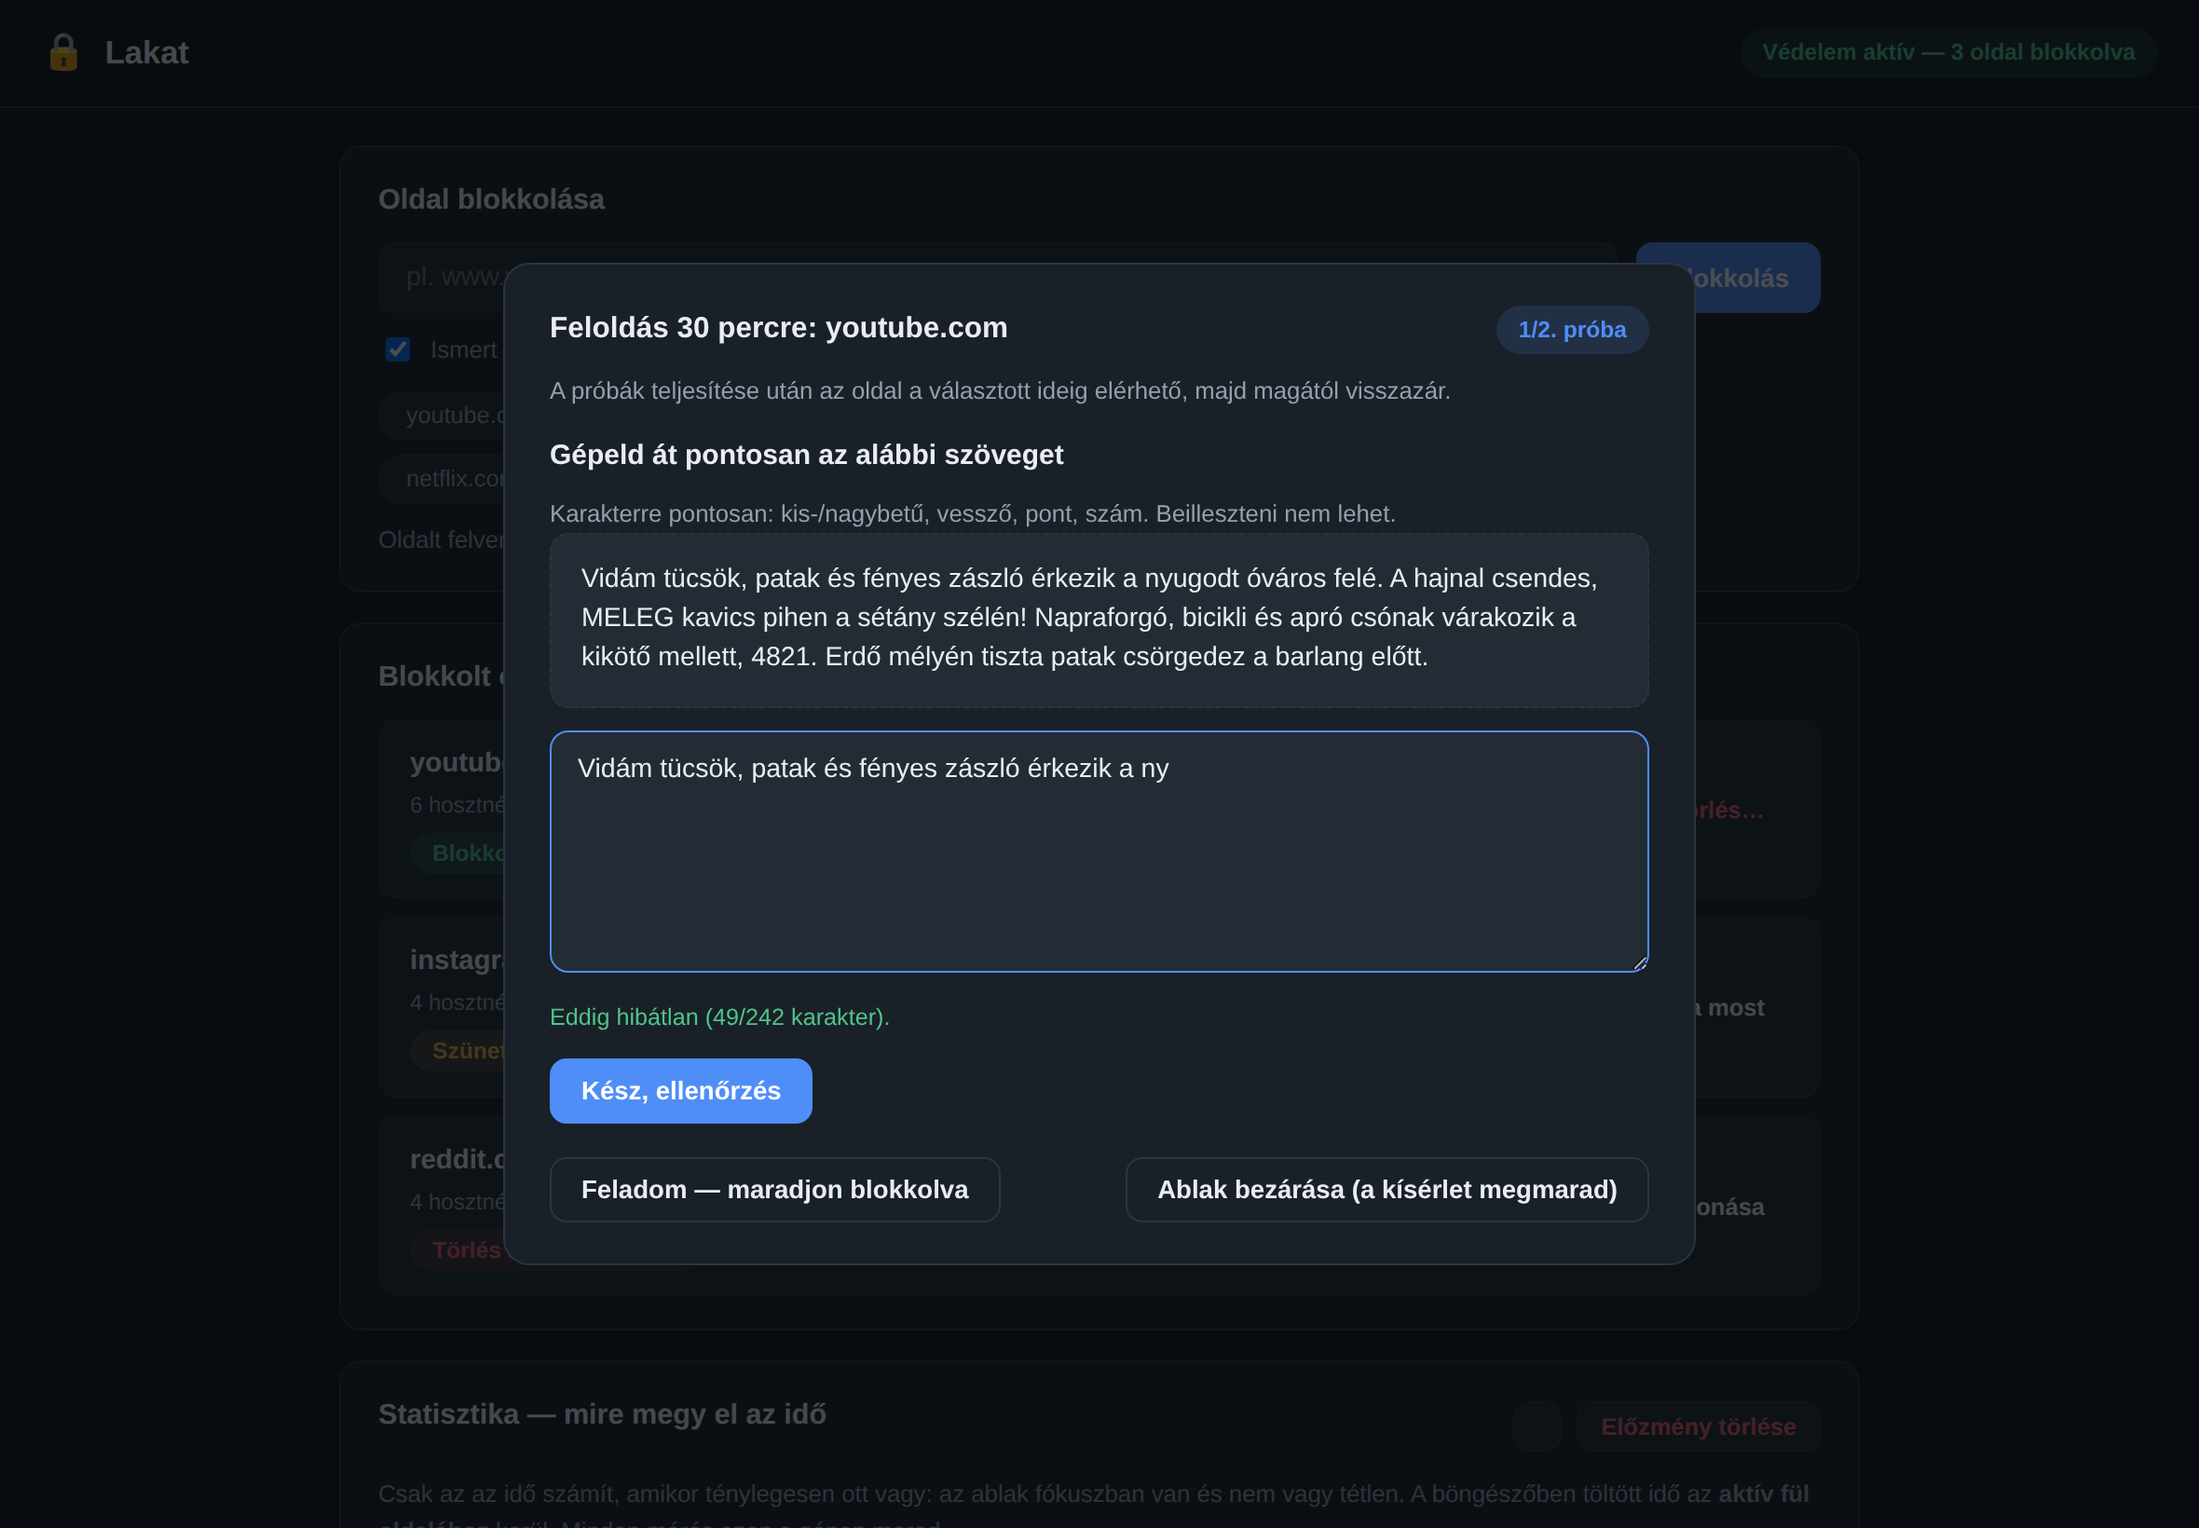
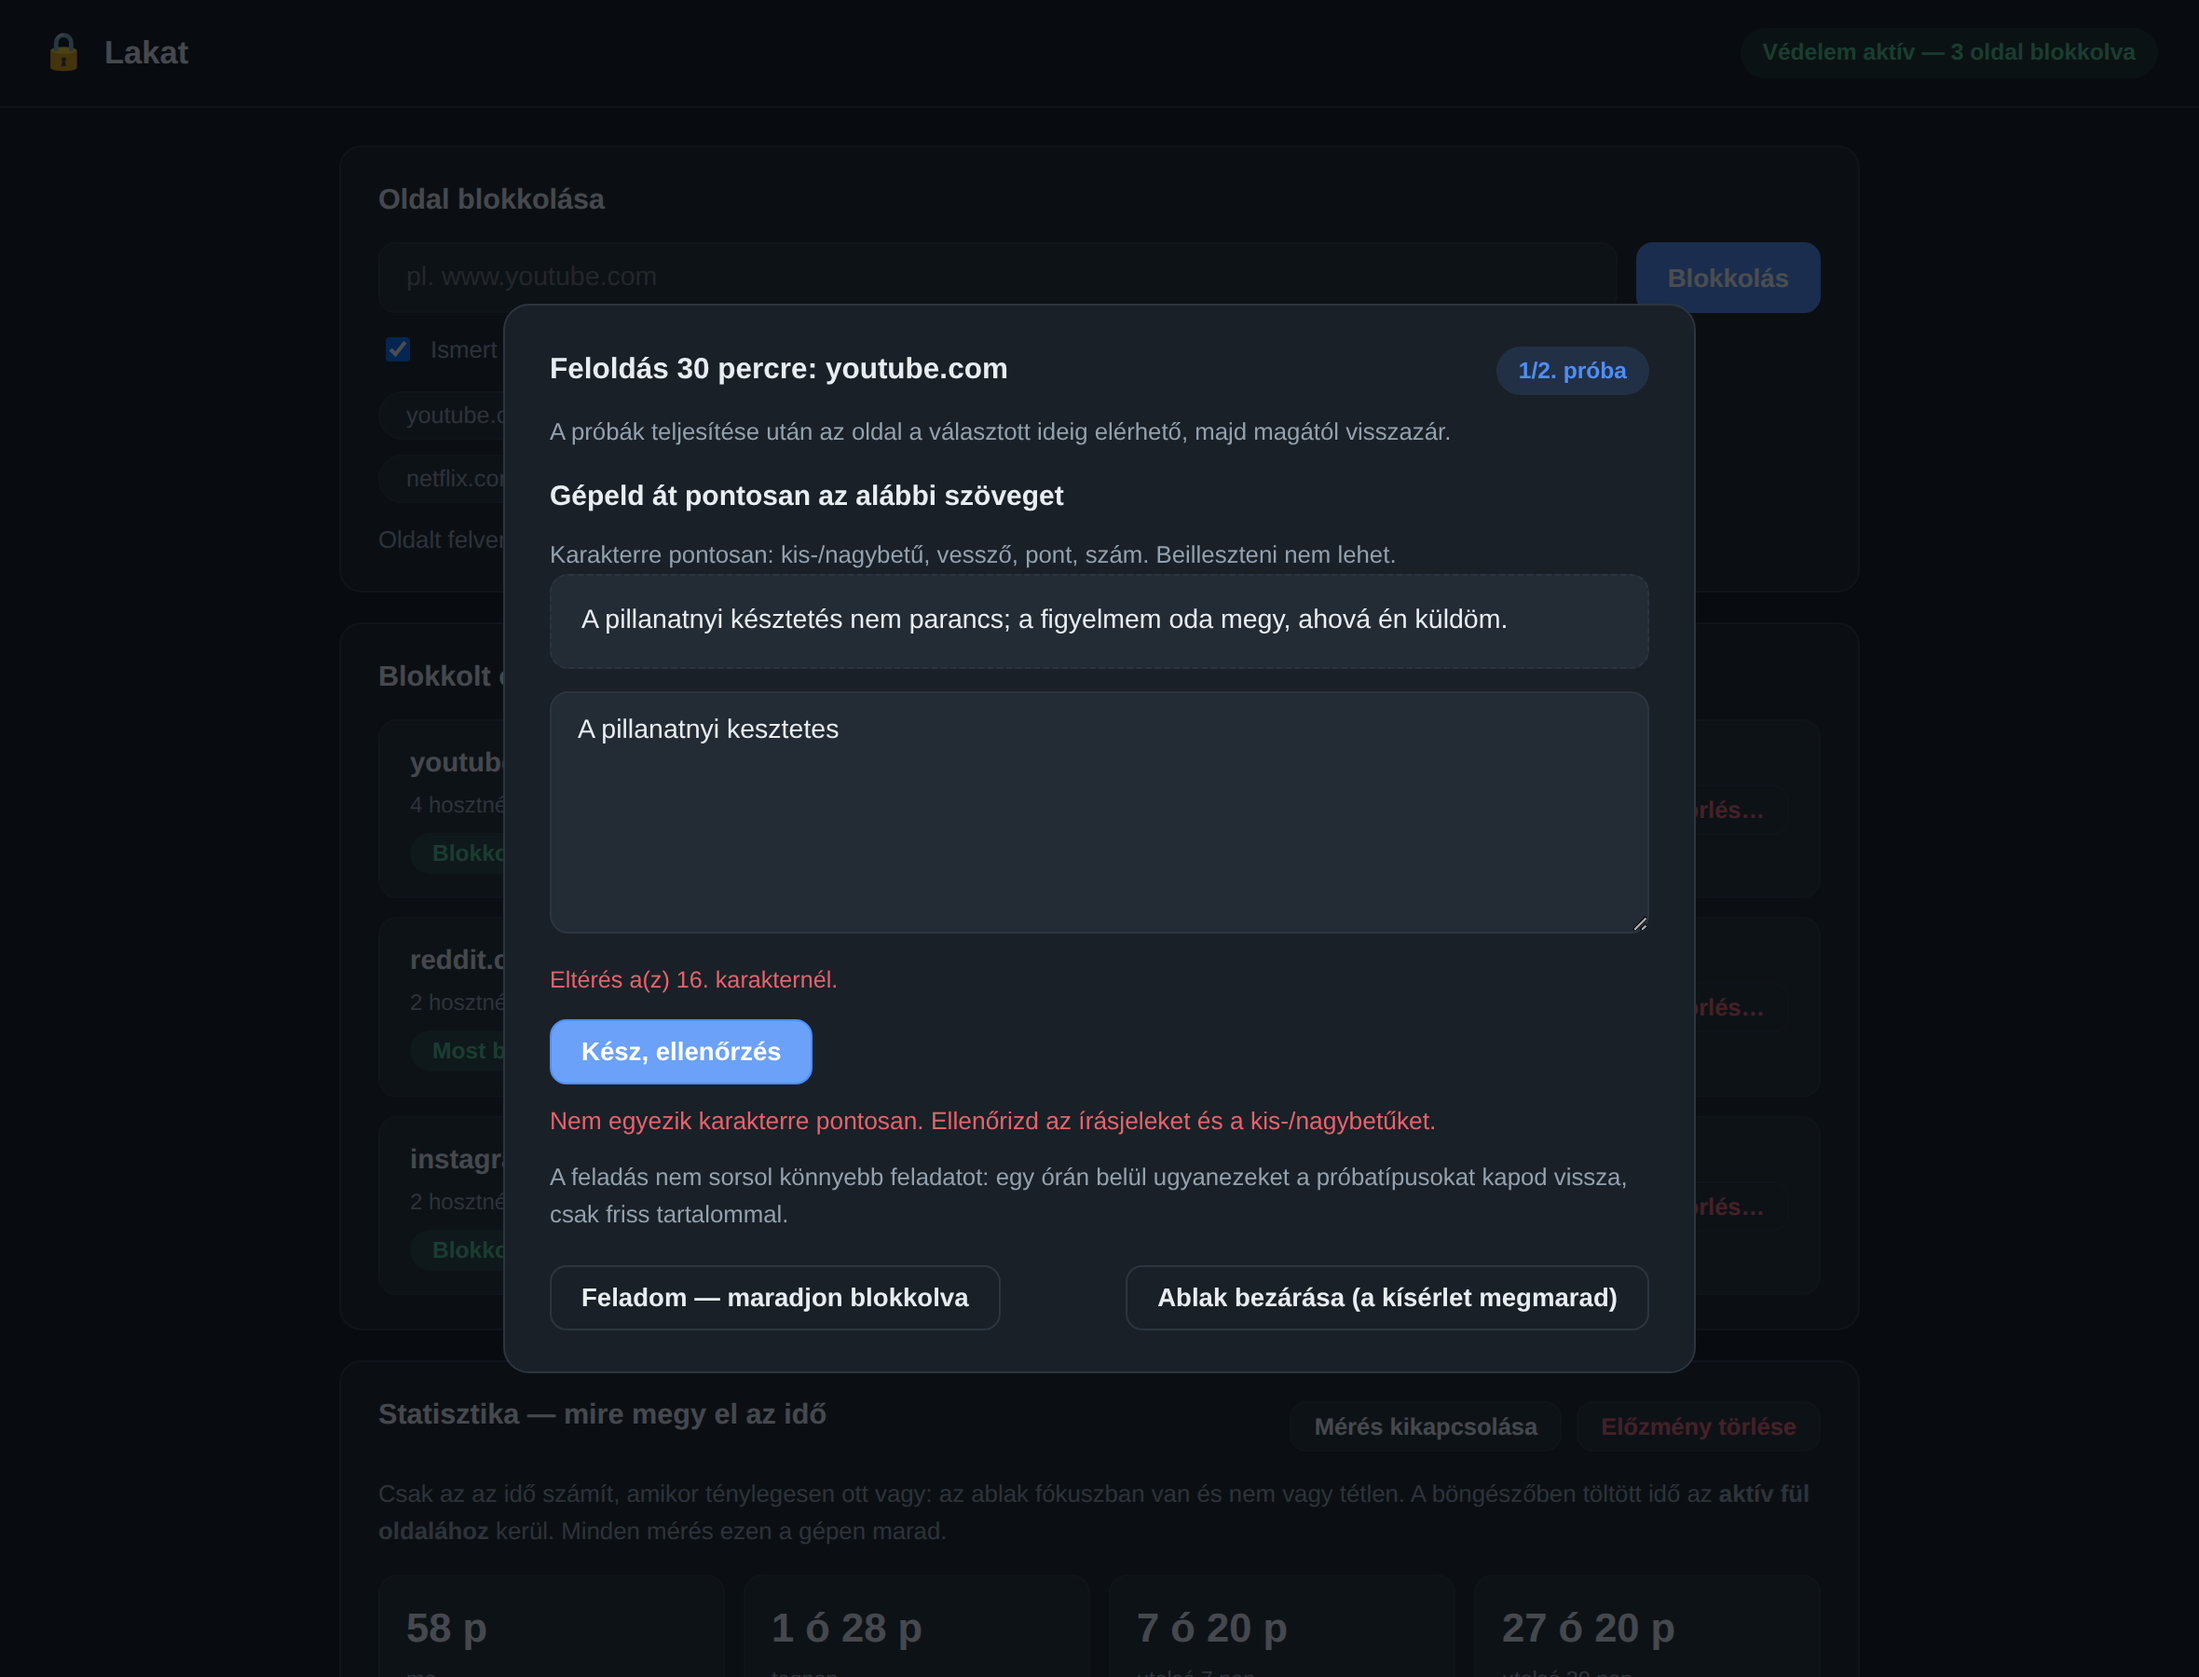
Renderer füstteszt: a felület tényleg betöltődik, és a képek frissek
A rendererről eddig semmi nem mondta meg, hogy egyáltalán elindul-e. Egy
hiányzó .js kiterjesztés az importban vagy egy null elem-lekérés némán üres
ablakot ad — a TypeScript-fordítás közben egyik sem látszik, és ez már
kétszer megtörtént.

scripts/ui-shots.js betölti a lefordított renderert egy fejetlen Chromiumban
(a window.lakat hidat egy kis, előre felírt állapot helyettesíti — nem kell
hozzá segéd, root, sem Electron), és végigmegy a valódi folyamaton:
- a főképernyőn tényleg megjelenik a három oldal és a négy stat-csempe,
- a heti diagram tényleg rajzol sávokat,
- „Feloldás időre…" → hossz választása → próbatétel-ablak,
- a beillesztés-tiltás valóban kiüríti a mezőt és szól érte,
- gépelve az élő visszajelzés az első eltérő karakterre mutat,
- a hibás válasz a szerver üzenetét mutatja.
Minden oldal-hiba (pageerror, konzol-hiba, 404) bukó teszt.

Ugyanez a szkript írja a docs/images képeket is (--check nélkül), így a
README képei nem csúsznak el a valóságtól. A CI külön jobként futtatja.

A képek frissítve; a próbatétel-ablakon már látszik az új figyelmeztetés is,
hogy a feladás nem sorsol könnyebb feladatot.

diff --git a/desktop/scripts/ui-shots.js b/desktop/scripts/ui-shots.js
@@ -1,0 +1,216 @@
+// Renderer smoke test + screenshot generator.
+//
+// Two jobs in one, because they need exactly the same setup:
+//   1. It actually LOADS the built renderer and drives it. A renderer can break
+//      in ways tsc never sees (a module specifier without .js, a null element
+//      lookup) and then the whole window is silently blank. That failure has
+//      happened twice; here it fails loudly instead.
+//   2. It refreshes docs/images/*.png so the README shows the current UI.
+//
+// The Electron bridge (window.lakat) is replaced by an in-page fake backed by a
+// small scripted state, so no helper, no root, no Electron — just Chromium.
+//
+// Run: node scripts/ui-shots.js            (writes docs/images, exits non-zero on any page error)
+//      node scripts/ui-shots.js --check    (smoke test only, no screenshots written)
+
+const fs = require('fs');
+const http = require('http');
+const path = require('path');
+
+const ROOT = path.join(__dirname, '..');
+// Serve dist/ui, not dist/ui/renderer: the page imports ../shared/*.js, which
+// would fall outside a root set at the renderer folder (exactly the 404 that
+// blanks the window in production too).
+const WEB = path.join(ROOT, 'dist', 'ui');
+const OUT = path.join(ROOT, '..', 'docs', 'images');
+const CHECK_ONLY = process.argv.includes('--check');
+
+const MIME = { '.html': 'text/html', '.js': 'text/javascript', '.css': 'text/css' };
+
+function globalPlaywrightPath() {
+  try {
+    const root = require('child_process').execSync('npm root -g', { encoding: 'utf8' }).trim();
+    const p = path.join(root, 'playwright');
+    return fs.existsSync(p) ? p : null;
+  } catch {
+    return null;
+  }
+}
+
+// file:// would work for the HTML but not for ES modules (CORS), so serve it.
+function serve() {
+  return new Promise((resolve) => {
+    const server = http.createServer((req, res) => {
+      const rel = (req.url || '/').split('?')[0];
+      const file = path.join(WEB, rel === '/' ? 'renderer/index.html' : rel);
+      if (!file.startsWith(WEB) || !fs.existsSync(file)) { res.statusCode = 404; res.end('no'); return; }
+      res.setHeader('Content-Type', MIME[path.extname(file)] || 'application/octet-stream');
+      res.end(fs.readFileSync(file));
+    });
+    server.listen(0, '127.0.0.1', () => resolve({ server, port: server.address().port }));
+  });
+}
+
+/** The scripted backend the fake bridge answers from. Kept deliberately small. */
+function fakeBridgeSource() {
+  return `
+    const now = Date.now();
+    const day = (back) => {
+      const d = new Date(now); d.setHours(12,0,0,0); d.setDate(d.getDate() - back);
+      const m = String(d.getMonth()+1).padStart(2,'0');
+      return d.getFullYear() + '-' + m + '-' + String(d.getDate()).padStart(2,'0');
+    };
+    const sites = [
+      { id: 'site_1', domain: 'youtube.com', hostnames: ['youtube.com','www.youtube.com','m.youtube.com','youtu.be'],
+        addedAt: now - 86400000*9, pauseUntil: null, pendingDeleteAt: null, blockedNow: true },
+      { id: 'site_2', domain: 'reddit.com', hostnames: ['reddit.com','www.reddit.com'],
+        addedAt: now - 86400000*4, pauseUntil: null, pendingDeleteAt: null,
+        schedule: { mode: 'scheduled_block', bands: [{ days: [1,2,3,4,5], startMin: 540, endMin: 1020 }] },
+        blockedNow: true },
+      { id: 'site_3', domain: 'instagram.com', hostnames: ['instagram.com','www.instagram.com'],
+        addedAt: now - 86400000*2, pauseUntil: null, pendingDeleteAt: null, blockedNow: true },
+    ];
+    let session = null;
+    const status = () => ({
+      helperVersion: 1, platform: 'darwin', sites, tier: 1, unlocks7d: 2,
+      session, dohPolicyApplied: true, usageEnabled: true, now: Date.now(),
+    });
+    const series = [];
+    const mins = [42, 66, 30, 81, 54, 95, 72, 38, 61, 88, 47, 70, 33, 58];
+    for (let i = 13; i >= 0; i--) series.push({ day: day(i), seconds: mins[13-i] * 60 });
+    const t = (key, label, kind, seconds) => ({ key, label, kind, seconds });
+    const stats = {
+      summary: {
+        enabled: true,
+        todaySeconds: 3480, yesterdaySeconds: 5280, last7Seconds: 26400, last30Seconds: 98400,
+        topToday: [ t('site:youtube.com','youtube.com','site',1500), t('app:com.slack','Slack','app',1080),
+                    t('site:reddit.com','reddit.com','site',540), t('app:com.apple.Safari','Safari','app',360) ],
+        topWeekSites: [ t('site:youtube.com','youtube.com','site',9600), t('site:reddit.com','reddit.com','site',5400),
+                        t('site:news.example','news.example','site',2700), t('site:github.com','github.com','site',1800) ],
+        topWeekApps: [ t('app:com.slack','Slack','app',7200), t('app:com.apple.Safari','Safari','app',4500),
+                       t('app:com.microsoft.VSCode','Visual Studio Code','app',3600) ],
+        weekOverWeek: [
+          { key: 'site:youtube.com', label: 'youtube.com', kind: 'site', thisWeek: 9600, lastWeek: 14400, deltaPct: -33.3 },
+          { key: 'app:com.slack', label: 'Slack', kind: 'app', thisWeek: 7200, lastWeek: 7000, deltaPct: 2.8 },
+          { key: 'site:reddit.com', label: 'reddit.com', kind: 'site', thisWeek: 5400, lastWeek: 3600, deltaPct: 50 },
+        ],
+        daysTracked: 14,
+      },
+      focusSeries: series,
+      focusLabel: 'youtube.com',
+    };
+    window.lakat = {
+      platform: 'darwin',
+      call: async (op, payload) => {
+        if (op === 'status') return { ok: true, data: status() };
+        if (op === 'usage_stats') return { ok: true, data: stats };
+        if (op === 'start_unlock') {
+          session = {
+            id: 'ses_demo', kind: 'pause', siteId: payload.siteId, minutes: payload.minutes,
+            stepIndex: 0, stepCount: 2,
+            current: { id: 'st_1', type: 'TRANSCRIBE',
+              text: 'A pillanatnyi késztetés nem parancs; a figyelmem oda megy, ahová én küldöm.' },
+          };
+          return { ok: true, data: session };
+        }
+        if (op === 'submit') {
+          return { ok: true, data: { accepted: false, sessionDone: false,
+            message: 'Nem egyezik karakterre pontosan. Ellenőrizd az írásjeleket és a kis-/nagybetűket.',
+            session } };
+        }
+        if (op === 'abandon') { session = null; return { ok: true, data: {} }; }
+        return { ok: true, data: {} };
+      },
+      install: async () => ({ ok: true }),
+      checkUpdate: async () => ({ ok: true }),
+      installUpdate: async () => ({ ok: true }),
+      getUpdateState: async () => ({ status: 'idle' }),
+      onUpdateState: () => {},
+    };
+  `;
+}
+
+async function main() {
+  if (!fs.existsSync(path.join(WEB, 'renderer', 'index.html'))) {
+    console.error('build first: npm run build');
+    process.exit(1);
+  }
+  // playwright may only be installed globally on this machine
+  let chromium;
+  for (const spec of ['playwright', globalPlaywrightPath()]) {
+    if (!spec) continue;
+    try { ({ chromium } = require(spec)); break; } catch { /* try the next */ }
+  }
+  if (!chromium) {
+    console.error('playwright is not available here; skipping UI shots');
+    process.exit(0);
+  }
+
+  const { server, port } = await serve();
+  const browser = await chromium.launch();
+  const page = await browser.newPage({ viewport: { width: 1180, height: 900 }, deviceScaleFactor: 2 });
+
+  // Any page-level failure is a test failure: a blank window is exactly what
+  // this script exists to catch.
+  const failures = [];
+  page.on('pageerror', (e) => failures.push(`pageerror: ${e.message}`));
+  page.on('console', (m) => { if (m.type() === 'error') failures.push(`console: ${m.text()}`); });
+  page.on('requestfailed', (r) => failures.push(`request failed: ${r.url()}`));
+
+  await page.addInitScript(fakeBridgeSource());
+  await page.goto(`http://127.0.0.1:${port}/renderer/index.html`);
+
+  // The home screen is only "up" once the status poll has painted the sites.
+  await page.waitForSelector('#siteList .site-row', { timeout: 15_000 });
+  const siteCount = await page.locator('#siteList .site-row').count();
+  if (siteCount !== 3) failures.push(`expected 3 site rows, saw ${siteCount}`);
+
+  await page.waitForSelector('#statTiles .tile', { timeout: 15_000 });
+  const tiles = await page.locator('#statTiles .tile').count();
+  if (tiles !== 4) failures.push(`expected 4 stat tiles, saw ${tiles}`);
+  const bars = await page.locator('#topSites .bar-row').count();
+  if (bars === 0) failures.push('the weekly top-sites chart rendered no bars');
+
+  if (!CHECK_ONLY) {
+    fs.mkdirSync(OUT, { recursive: true });
+    await page.screenshot({ path: path.join(OUT, 'desktop-home.png'), fullPage: false });
+    await page.locator('#statsCard').screenshot({ path: path.join(OUT, 'desktop-stats.png') });
+  }
+
+  // Drive the unlock flow: pause -> challenge modal with a wrong answer.
+  await page.locator('#siteList .site-row').first()
+    .getByRole('button', { name: /Feloldás időre/ }).click();
+  await page.waitForSelector('#pauseDialog:not(.hidden)', { timeout: 10_000 });
+  await page.locator('#pauseDialog button[data-minutes="30"]').click();
+  await page.waitForSelector('#sessionModal:not(.hidden)', { timeout: 10_000 });
+  await page.waitForSelector('#stepArea textarea', { timeout: 10_000 });
+
+  // Pasting must not work: a whole string arriving in one input event is wiped
+  // and called out. (fill() is exactly that, which makes it a free test.)
+  await page.fill('#stepArea textarea', 'A pillanatnyi késztetés nem parancs; a figyelmem oda megy, ahová én küldöm.');
+  await page.waitForSelector('#stepMessage:not(.hidden)', { timeout: 5_000 });
+  const pasteMsg = await page.locator('#stepMessage').textContent();
+  if (!/beilleszt/i.test(pasteMsg || '')) failures.push(`paste guard did not fire: ${pasteMsg}`);
+  if (await page.inputValue('#stepArea textarea') !== '') failures.push('pasted text was not cleared');
+
+  // Typed input: the live feedback marks the first differing character.
+  await page.locator('#stepArea textarea').pressSequentially('A pillanatnyi kesztetes', { delay: 5 });
+  await page.waitForSelector('.live-feedback.bad', { timeout: 5_000 });
+  await page.locator('.step-submit').click();
+  await page.waitForSelector('#stepMessage:not(.hidden)', { timeout: 10_000 });
+  if (!CHECK_ONLY) {
+    await page.screenshot({ path: path.join(OUT, 'desktop-challenge.png'), fullPage: false });
+  }
+
+  await browser.close();
+  server.close();
+
+  if (failures.length) {
+    console.error('UI smoke test failed:');
+    for (const f of failures) console.error('  ' + f);
+    process.exit(1);
+  }
+  console.log(CHECK_ONLY ? 'UI smoke test OK' : `UI smoke test OK, screenshots written to ${OUT}`);
+}
+
+main().catch((e) => { console.error(e); process.exit(1); });
